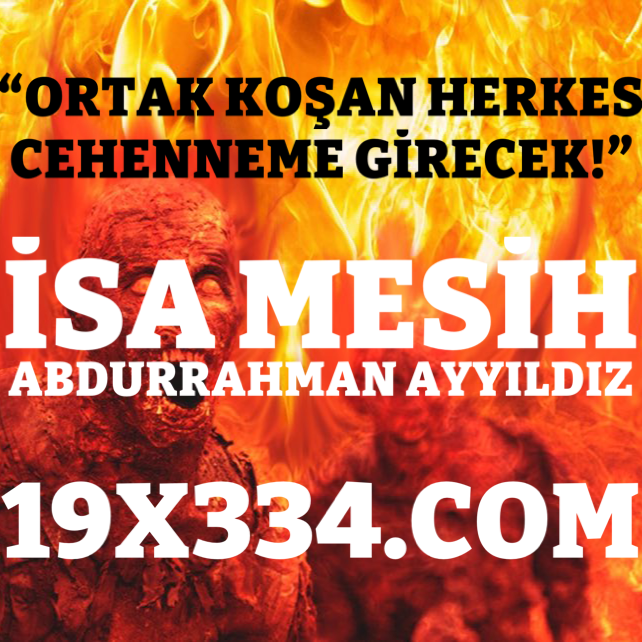
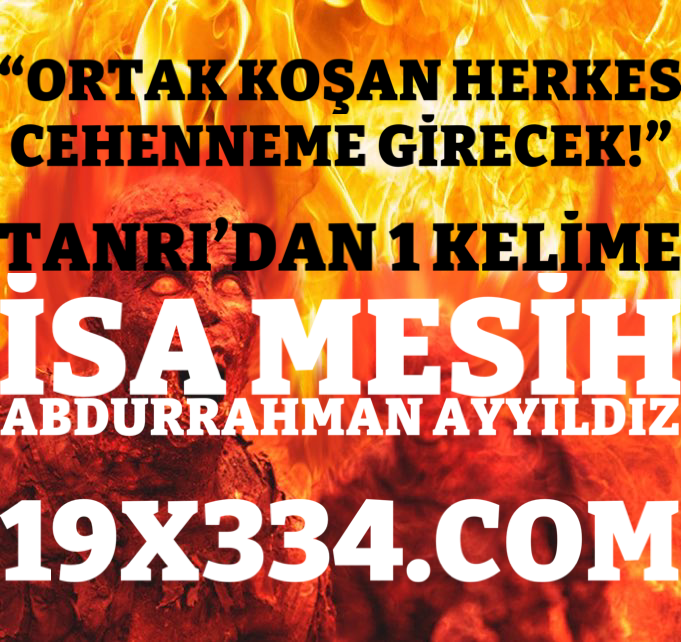
19

diff --git a/js/ebced.js b/js/ebced.js
@@ -3055,6 +3055,13 @@ notifications.push({
 	html: "<p style='font-size: x-large;'>In That Case " + ((browser == "iPad-Safari" || browser == "iPhone-Safari" || browser == "iPod-Safari" || browser.includes("Android")) ? "Rotate Your Device" : "Resize Width of Your Browser Window") + " and Then Continue Counting From Unslipped Verse You Remained or Just <a href='https://www.mozilla.org/en/firefox/new/' target='_blank'>Use Firefox</a>" + ((browser == "Firefox") ? "!</p>" : (" Instead of " + browser + "!</p>"))
 });
 
+notifications.push({
+	imageUrl: "pic/işte_73-5_teki_söz_73-9.PNG",
+	imageAlt: "İŞTE 73:5 AYETİNDEKİ SÖZ",
+	title: "İŞTE 73:5 AYETİNDEKİ SÖZ",
+	html: "<p style='font-size: x-large;'>Doğunun ve batının Rabb'idir O. O'ndan başka ilah yoktur. Öyleyse yalnız O'nu vekil edin. <span class='blue'>73:9</span><br><br><b>İŞTE <span class='blue'>73:5</span> AYETİNDEKİ SÖZ:</b><br><br><u><b style='font-size: xx-large;'>''<span class='red'>ORTAK KOŞAN HERKES CEHENNEME GİRECEK!</span>''</u></b><br><br><span class='blue'>73</span>. Sure: ''Örtüsüne Bürünen''<br><br>Rahman ve Rahim olan ALLAH'ın Adıyla,<br><br><span class='blue'>1</span>. Ey örtüsüne bürünen!<br><br><span class='blue'>2</span>. Gecenin birazında kalk!<br><br><span class='blue'>3</span>. Gecenin yarısında veya ondan biraz önce.<br><br><span class='blue'>4</span>. Ya da yarısından biraz sonra… Kuran'ı da özenle düşüne düşüne oku.<br><br><span class='blue'>5</span>. Şüphesiz ki Biz, senin üzerine ağır bir söz bırakacağız.<br><br><span class='blue'>6</span>. Kuşkusuz gece, fikir inşası çok daha etkili ve ifade açısından daha uygundur.<br><br><span class='blue'>7</span>. Gündüz, uzun süre uğraşacağın işler var.<br><br><span class='blue'>8</span>. Rabb'inin adını an ve bütün benliğinle yalnızca O'na yönel.<br><br><span class='blue'>9</span>. Doğunun ve batının Rabb'idir O. O'ndan başka ilah yoktur. Öyleyse yalnız O'nu vekil edin.<br><br><span class='blue'>10</span>. Onların söylediklerine sabret. Ve onlardan güzellikle uzaklaş.<br><br><span class='blue'>11</span>. Varlık sahibi, yalanlayıcıları Bana bırak. Onlara biraz süre tanı.<br><br><span class='blue'>12</span>. Bizim yanımızda prangalar ve Cehennem var.<br><br><span class='blue'>13</span>. Ve boğazı tıkayan yiyecek ve acı bir azap vardır.<br><br><span class='blue'>14</span>. O gün yeryüzü ve dağlar şiddetle sarsılır ve dağlar dağılmış kum yığınları gibi olur.<br><br><span class='blue'>15</span>. Size tanıklık edecek bir resul gönderdik. Tıpkı Firavun'a da bir resul gönderdiğimiz gibi.<br><br><span class='blue'>16</span>. Firavun Resul'e isyan etti. Bunun üzerine onu çok zorlu bir tutuşla tutuverdik.<br><br><span class='blue'>17</span>. Eğer Kafirlerden olursanız, çocukların saçlarını ağartan o günden kendinizi nasıl koruyacaksınız?<br><br><span class='blue'>18</span>. Gök, o günün şiddeti ile çatlayıp parçalanacak ve O'nun uyarısı gerçekleşecektir.<br><br><span class='blue'>19</span>. Bu bir öğüttür. Dileyen Rabb'ine götüren bir yol edinir.<br><br><span class='blue'>20</span>. Hiç kuşkun olmasın, Rabbin senin durumunu biliyor. Gecenin üçte ikisinden daha azını, yarısını, üçte birini ayakta geçiriyorsun. Seninle beraber olanlardan bir grup da öyle. ALLAH, geceyi de gündüzü de ölçüye bağlamıştır. Sizin onu kuşatamayacağınızı bildi de size tövbe nasip etti. O halde Kur'an'dan, kolay geleni okuyun. Sizden hastalar olacağını bildi. Bir kısmının yeryüzünde dolaşıp ALLAH'ın lütfundan bir şeyler isteyeceklerini, diğer bir kısmının da ALLAH yolunda çarpışacaklarını bildi. O halde Kur'an'dan, kolay geleni okuyun! Namazı kılın! Zekatı verin. Güzel bir ödünçle ALLAH'a ödünç verin! Öz benlikleriniz için önden gönderdiğiniz iyiliğin, ALLAH katında hayrını daha çok, ödülünü daha büyük olarak bulacaksınız. ALLAH'tan af dileyin. Hiç kuşkusuz, ALLAH çok affedici, çok esirgeyicidir.<br>&nbsp;</p>"
+});
+
 var uyarı = false;
 
 document.getElementById("uyarı").addEventListener("click", function() {
@@ -3074,40 +3081,49 @@ function alertt()
 		clickLink = false;
 
 		Swal.fire({
-			title: notifications[1].title,
-			html: notifications[1].text,
-			imageUrl: notifications[1].imageUrl,
-			imageWidth: 'auto',
-			imageHeight: 190,
-			imageAlt: 'DO NOT TOUCH QURAN! WITHOUT CLEANED UP! EVEN WITH MOUSE!'
+			title: notifications[4].title,
+			html: notifications[4].html,
+			imageUrl: notifications[4].imageUrl,
+			imageWidth: '100%',
+			imageHeight: 'auto',
+			imageAlt: 'İŞTE 73:5 AYETİNDEKİ SÖZ'
 		}).then((value) => {
 			Swal.fire({
-				title: notifications[0].title,
-				html: notifications[0].html,
-				imageUrl: notifications[0].imageUrl,
+				title: notifications[1].title,
+				html: notifications[1].text,
+				imageUrl: notifications[1].imageUrl,
 				imageWidth: 'auto',
-				imageHeight: 301,
-				imageAlt: 'GOD HAS PRESERVED QURAN BY MIRACLE OF 19!'
+				imageHeight: 190,
+				imageAlt: 'DO NOT TOUCH QURAN! WITHOUT CLEANED UP! EVEN WITH MOUSE!'
 			}).then((value) => {
 				Swal.fire({
-					title: notifications[2].title,
-					html: notifications[2].text,
-					imageUrl: notifications[2].imageUrl,
+					title: notifications[0].title,
+					html: notifications[0].html,
+					imageUrl: notifications[0].imageUrl,
 					imageWidth: 'auto',
-					imageHeight: 'auto',
-					imageAlt: notifications[2].text
+					imageHeight: 301,
+					imageAlt: 'GOD HAS PRESERVED QURAN BY MIRACLE OF 19!'
 				}).then((value) => {
 					Swal.fire({
-						imageUrl: notifications[3].imageUrl,
-						imageWidth: notifications[3].imageWidth,
-						imageHeight: notifications[3].imageHeight,
-						imageAlt: notifications[3].imageAlt,
-						title: notifications[3].title,
-						html: notifications[3].html
+						title: notifications[2].title,
+						html: notifications[2].text,
+						imageUrl: notifications[2].imageUrl,
+						imageWidth: 'auto',
+						imageHeight: 'auto',
+						imageAlt: notifications[2].text
 					}).then((value) => {
-						v = 0; // starts verses from 0
-						clickLink = false; // insanları zorlama inşALLAH
-						// clickLink = true;
+						Swal.fire({
+							imageUrl: notifications[3].imageUrl,
+							imageWidth: notifications[3].imageWidth,
+							imageHeight: notifications[3].imageHeight,
+							imageAlt: notifications[3].imageAlt,
+							title: notifications[3].title,
+							html: notifications[3].html
+						}).then((value) => {
+							v = 0; // starts verses from 0
+							clickLink = false; // insanları zorlama inşALLAH
+							// clickLink = true;
+						})
 					})
 				})
 			})
